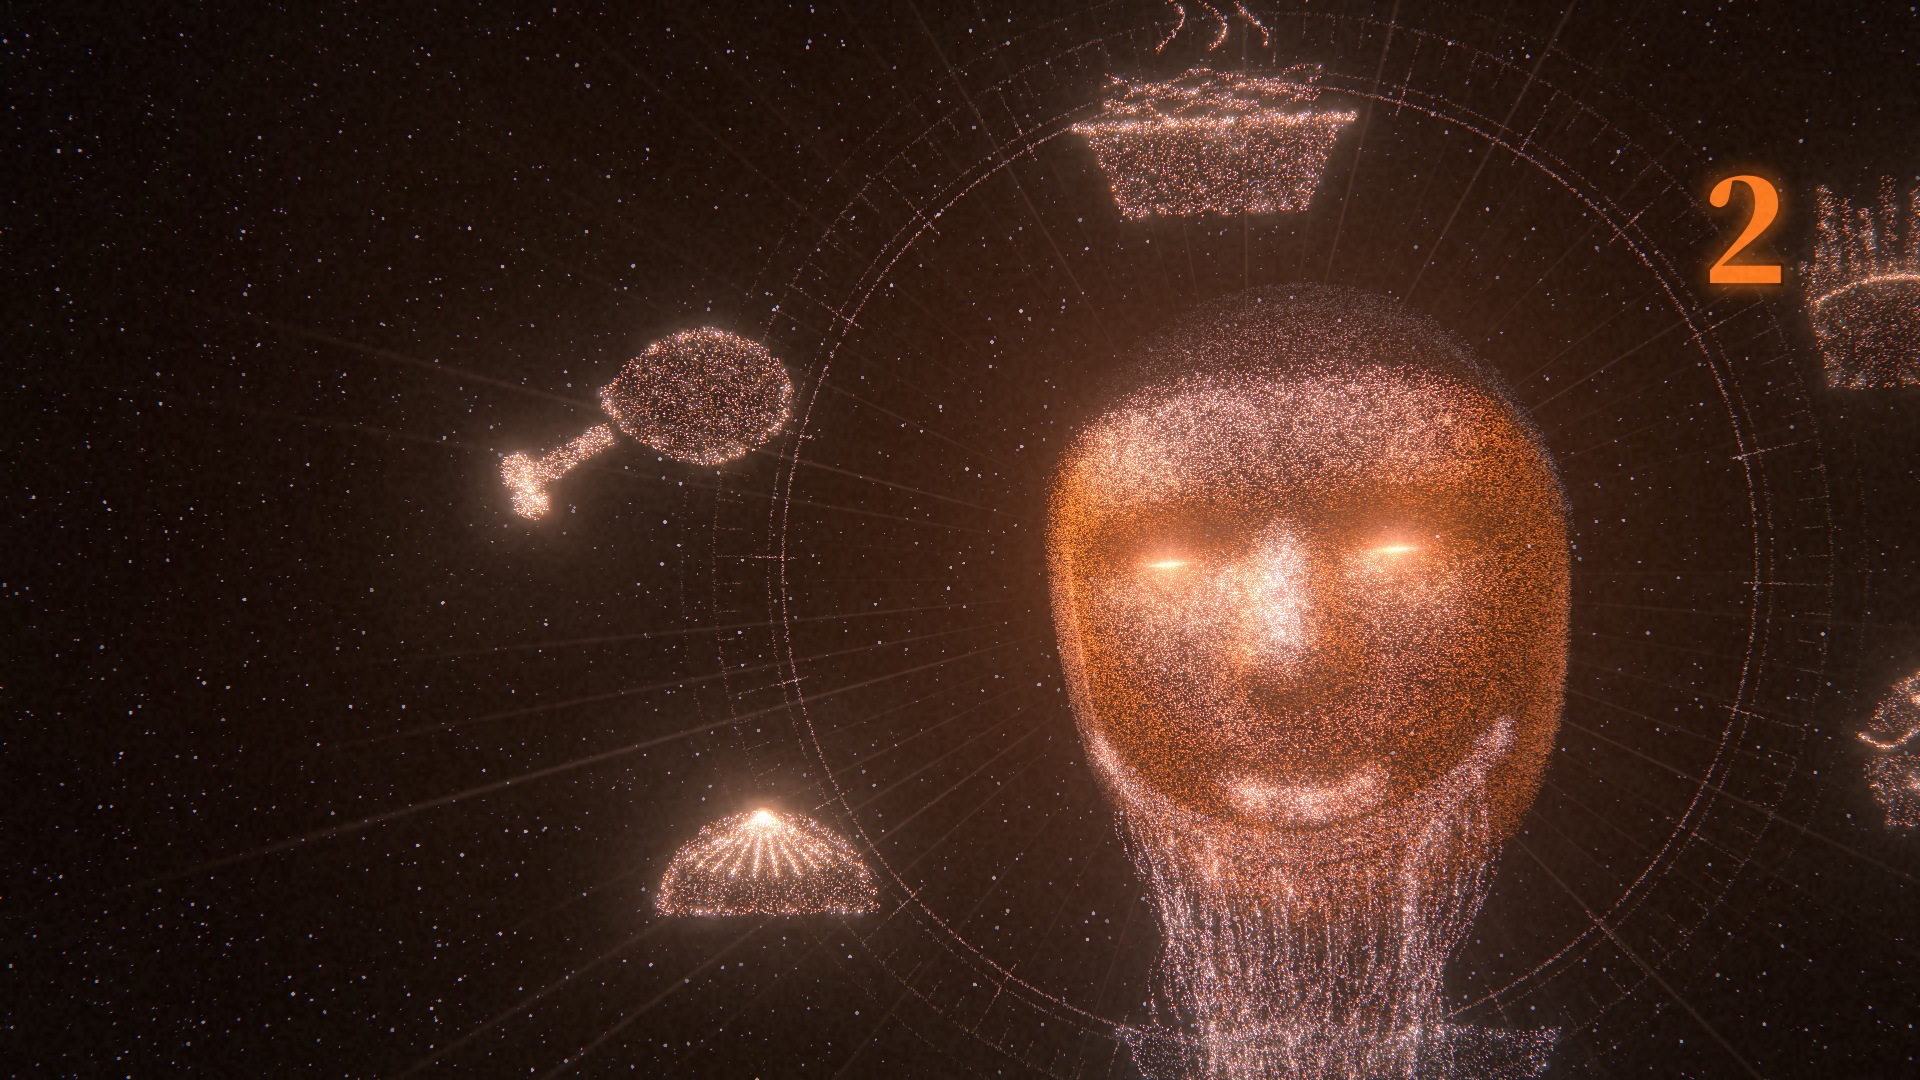
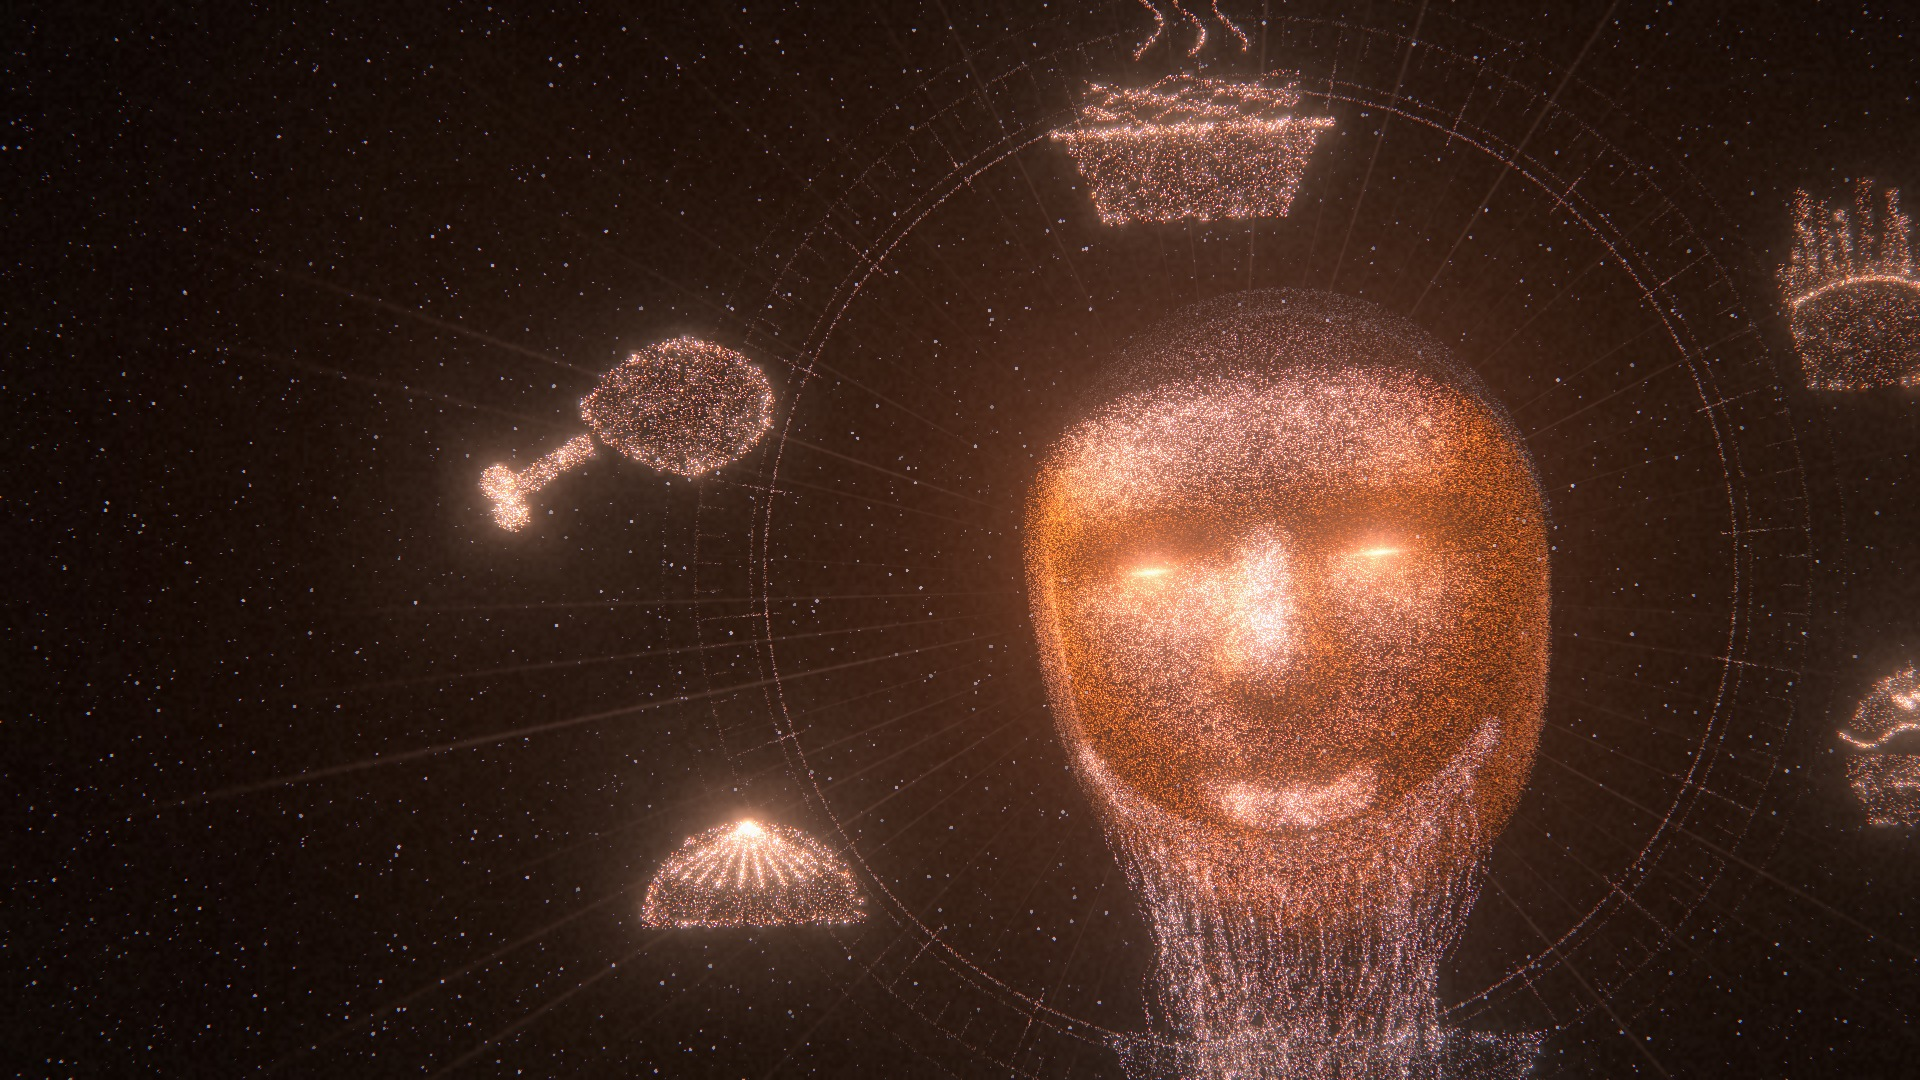
暴食（短版）：完整版 18.2 秒，截图
Claude-Session: https://claude.ai/code/session_01F82hsRkLvtZJD637PG7mqF

diff --git a/videos/gluttony/src/gluttony.js b/videos/gluttony/src/gluttony.js
@@ -711,7 +711,7 @@ export function frame(t) {
     const su = t - EV.seven; if (su >= 0 && su < 0.6) { const pz = Math.sin(Math.PI * clamp(su / 0.6)); c = { ...c, pos: lerp3(c.target, c.pos, 1 - 0.16 * pz) }; }   // “7”：镜头快速推到脸再弹回
     cam = c;
     if (dt < 0.5) F.shock = { c: project([0, HEAD_C[1], 0.3]), r: 0.08 + 0.5 * outExpo(dt / 0.5), a: 0.6 * (1 - dt / 0.5), col: HI };
-    if (dt < 0.25) F.flash = { c: project([0, HEAD_C[1], 0.3]), a: 0.45 * Math.exp(-dt / 0.12), r: 520 };
+    if (dt < 0.25) F.flash = { c: project([0, HEAD_C[1], 0.3]), a: 0.28 * Math.exp(-dt / 0.12), r: 520 };
     if (dt < 0.15) F.shake = Math.max(F.shake, 1 - dt / 0.15);
     F.bursts.push({ t0: EV.change, pos: [0, HEAD_C[1], 0.4], n: 120, speed: 1.6, life: 0.7, grav: -0.2, seed: 5, bright: 1.6 });
     // 计数：1–6，第七口一个巨大的“7”砸下来
@@ -727,7 +727,7 @@ export function frame(t) {
     const dt = t - EV.wide, k = inOut(clamp(dt / 0.4)), D = 7.4, cx = 0.333 * HW(D); full = true;
     cam = camLerp(live(close, t, EV.change, 0), live(camAt(cx, -0.3, D), t, EV.wide, cx), k);
     W.g.visible = true; W.g.position.set(0, 0, 0);
-    setState(W, { lite: false, gray: false, eyes: 1, halo: 1, props: 1, scatter: 0, aud: AUD }); animate(W, t, 9, -9, true, AUD);
+    setState(W, { lite: false, gray: false, eyes: 1, halo: 1, props: 1, scatter: 0, aud: AUD }); animate(W, t, 9, -9, true, AUD); W.mats.forEach(m => { m.uniforms.uDim.value *= 0.86; });   // 拉远时脸的亮度不冲高
     F.signal = { p: sig(t), a: clamp((dt - 0.4) / 0.25), x: project([0.72, 0, 0.5])[0], hx: 0 };
     F.timer = { c: [cx * 0 + 1450, 470], n: EV.ticks.filter(b => t >= b).length, a: clamp((dt - 0.15) / 0.3) };
     subj = [0, HEAD_C[1], 0];
